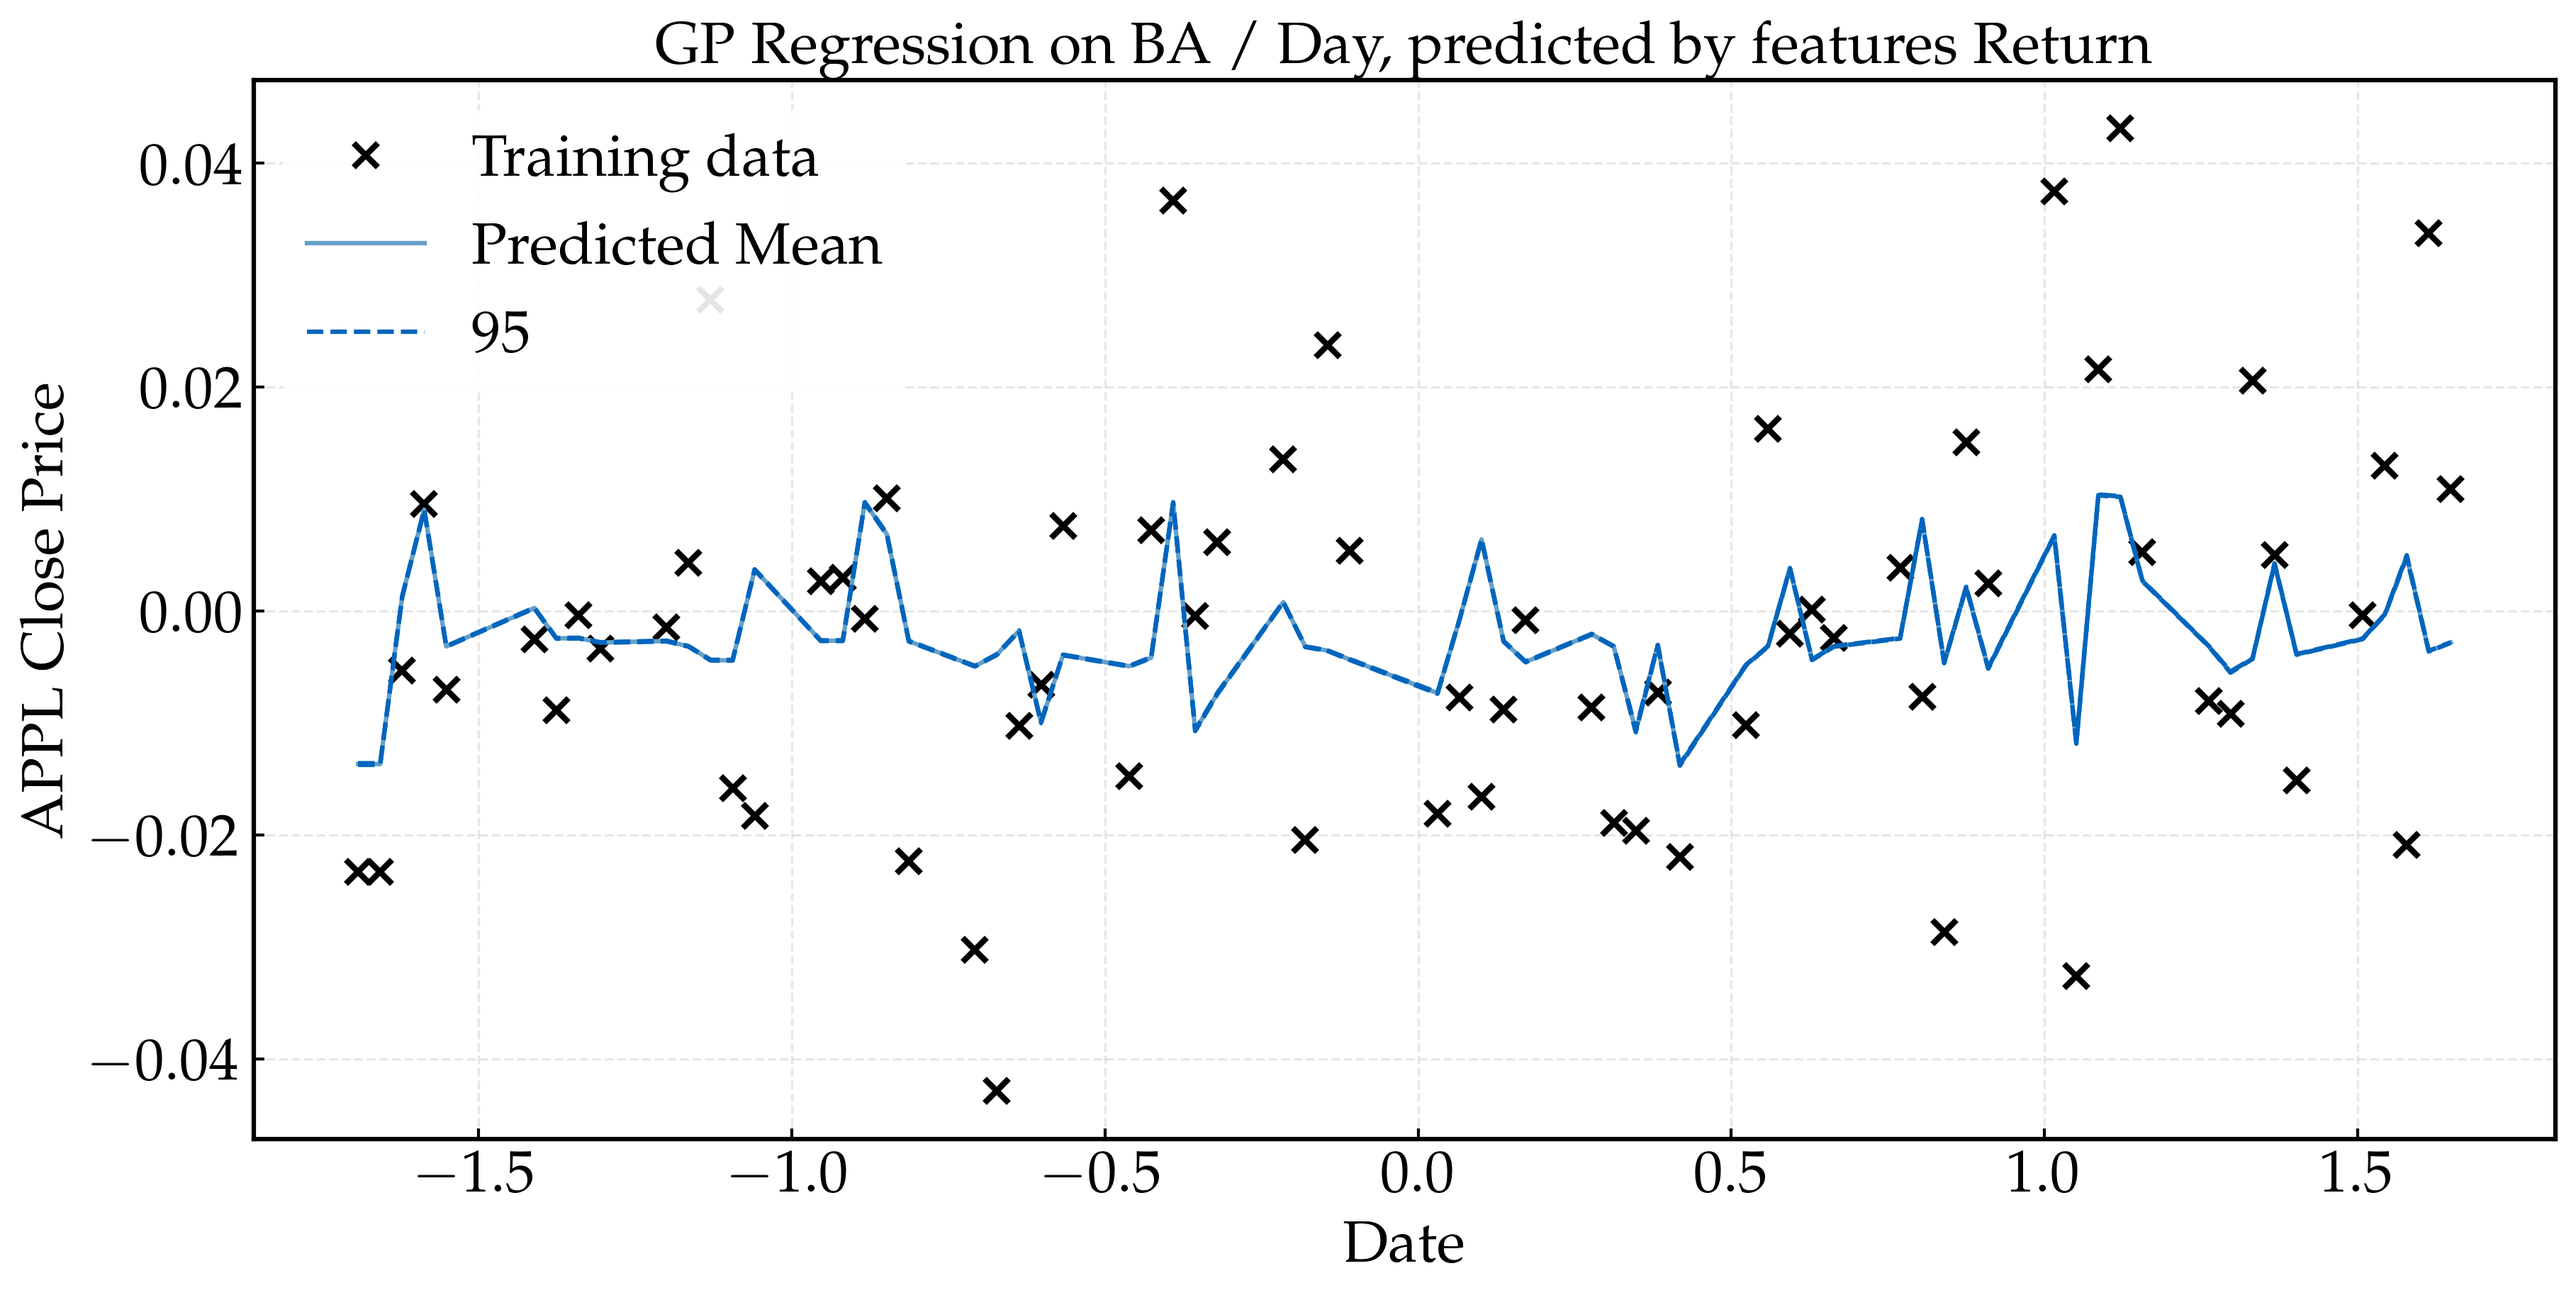
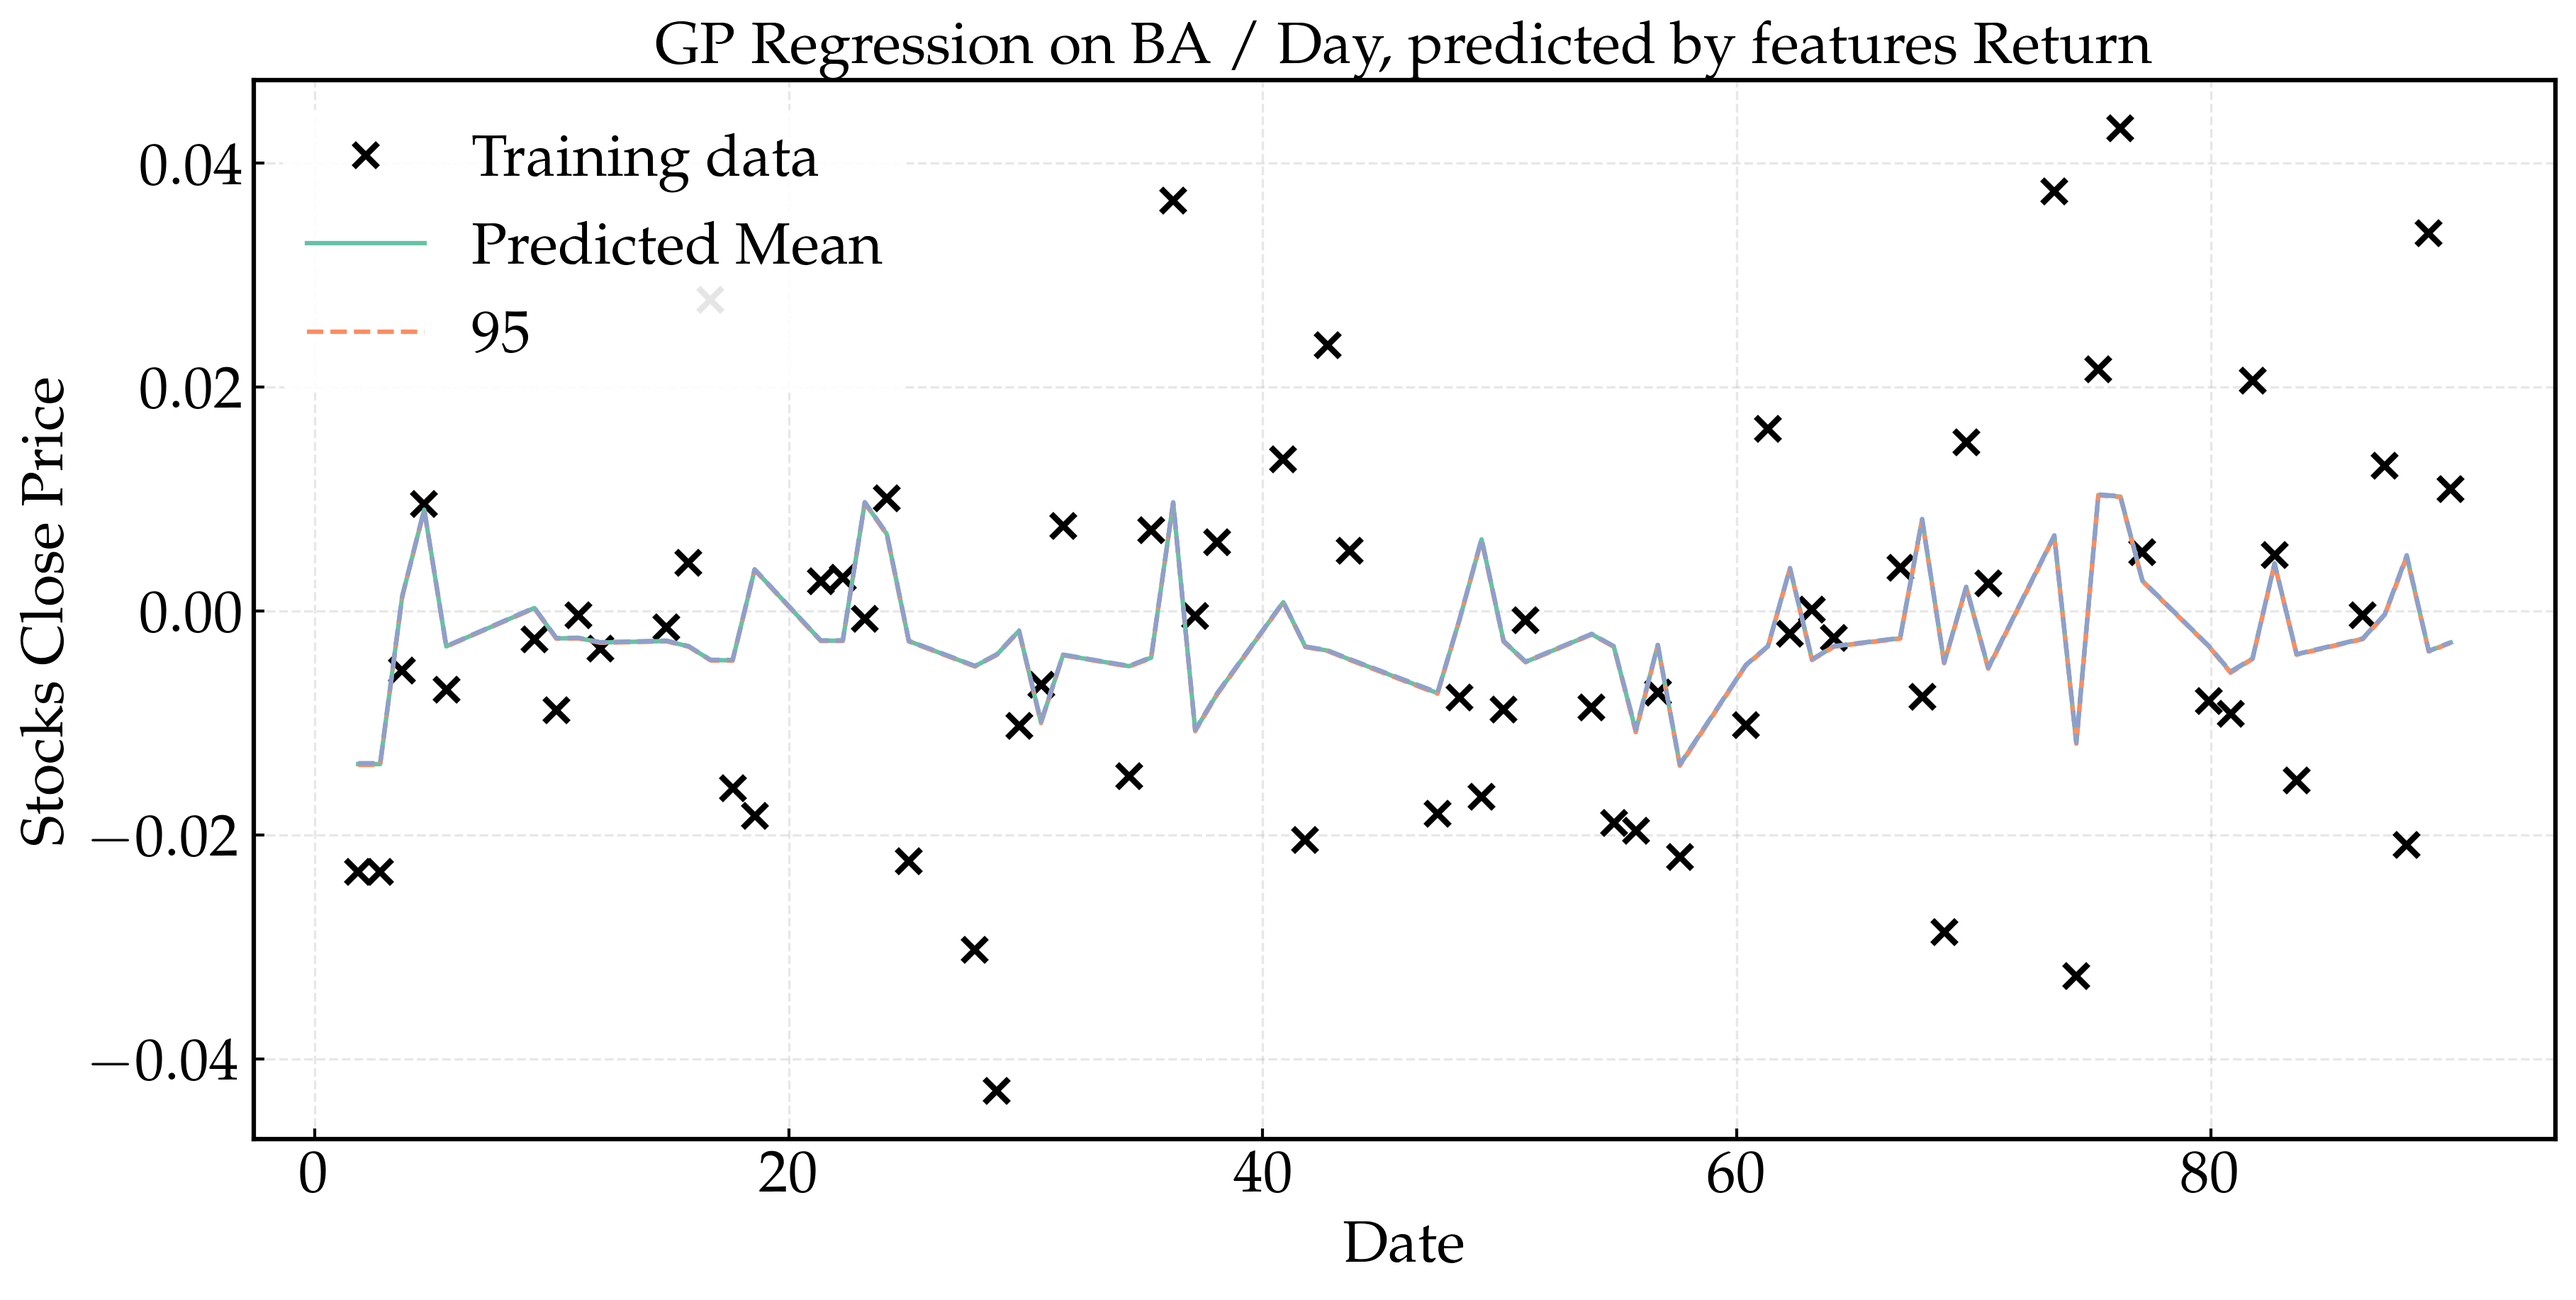
update
update

diff --git a/Multi-Input_GPR/main.py b/Multi-Input_GPR/main.py
@@ -267,7 +267,7 @@ class MultiInputGPR:
     def run_step_3(self) -> None:
         #1. Fetch the actual values of to-be-predicted stock data(e.g. APPL stock price)
         X_AAPL_tf, Y_AAPL_tf, AAPL_dates, (AAPL_mean, AAPL_std), (x_mean, x_std) = self.data_handler.process_data("Stocks", self.ticker, "d", self.train_start_date, self.train_end_date, self.predict_Y, isFetch=True, isDenoised=False, isFiltered=False)
-        X_AAPL_full_tf, Y_AAPL_full_tf, AAPL_full_dates, (AAPL_full_mean, AAPL_full_std), (x_mean_full, x_std_full) = self.data_handler.process_data("Stocks", self.ticker, "d", self.train_start_date, self.test_end_date, "return", isFetch=True, isDenoised=False, isFiltered=False)
+        X_AAPL_full_tf, Y_AAPL_full_tf, AAPL_full_dates, (AAPL_full_mean, AAPL_full_std), (x_mean_full, x_std_full) = self.data_handler.process_data("Stocks", self.ticker, "d", self.train_start_date, self.test_end_date, self.predict_Y, isFetch=True, isDenoised=False, isFiltered=False)
 
         #2. Fetch input data(e.g. Brent Oil / MSFT stock price)
         # X columns vector for training
@@ -277,16 +277,16 @@ class MultiInputGPR:
         for feature in self.features:
             if feature == "Brent_Oil" or feature == "DXY" or feature == "XAU_USD":
                 X_tf, Y_tf, dates, (y_mean, y_std), (x_mean, x_std) = self.data_handler.process_data("Commodities", feature, "d", self.train_start_date, self.train_end_date, self.predict_Y, isFetch=False, isDenoised=False, isFiltered=False)
-                X_full_tf, Y_full_tf, full_dates, (y_full_mean, y_full_std), (x_full_mean, x_full_std)= self.data_handler.process_data("Commodities", feature, "d", self.train_start_date, self.test_end_date, "return", isFetch=False, isDenoised=False, isFiltered=False)
+                X_full_tf, Y_full_tf, full_dates, (y_full_mean, y_full_std), (x_full_mean, x_full_std)= self.data_handler.process_data("Commodities", feature, "d", self.train_start_date, self.test_end_date, self.predict_Y, isFetch=False, isDenoised=False, isFiltered=False)
             elif feature == "SP500" or feature == "NasDaq100":
                 X_tf, Y_tf, dates, (y_mean, y_std), (x_mean, x_std) = self.data_handler.process_data("Stocks/index", feature, "d", self.train_start_date, self.train_end_date, self.predict_Y, isFetch=False, isDenoised=False, isFiltered=False)
-                X_full_tf, Y_full_tf, full_dates, (y_full_mean, y_full_std), (x_full_mean, x_full_std) = self.data_handler.process_data("Stocks/Index", feature, "d", self.train_start_date, self.test_end_date, "return", isFetch=False, isDenoised=False, isFiltered=False)
+                X_full_tf, Y_full_tf, full_dates, (y_full_mean, y_full_std), (x_full_mean, x_full_std) = self.data_handler.process_data("Stocks/Index", feature, "d", self.train_start_date, self.test_end_date, self.predict_Y, isFetch=False, isDenoised=False, isFiltered=False)
             elif feature == "BTC":
                 X_tf, Y_tf, dates, (y_mean, y_std), (x_mean, x_std) = self.data_handler.process_data("Stocks", feature, "d", self.train_start_date, self.train_end_date, self.predict_Y, isFetch=False, isDenoised=False, isFiltered=False)
-                X_full_tf, Y_full_tf, full_dates, (y_full_mean, y_full_std), (x_full_mean, x_full_std) = self.data_handler.process_data("Stocks", feature, "d", self.train_start_date, self.test_end_date, "return", isFetch=False, isDenoised=False, isFiltered=False)
+                X_full_tf, Y_full_tf, full_dates, (y_full_mean, y_full_std), (x_full_mean, x_full_std) = self.data_handler.process_data("Stocks", feature, "d", self.train_start_date, self.test_end_date, self.predict_Y, isFetch=False, isDenoised=False, isFiltered=False)
             else:
                 X_tf, Y_tf, dates, (y_mean, y_std), (x_mean, x_std) = self.data_handler.process_data("Stocks", feature, "d", self.train_start_date, self.train_end_date, self.predict_Y, isFetch=True, isDenoised=False, isFiltered=False)
-                X_full_tf, Y_full_tf, full_dates, (y_full_mean, y_full_std), (x_full_mean, x_full_std) = self.data_handler.process_data("Stocks", feature, "d", self.train_start_date, self.test_end_date, "return", isFetch=True, isDenoised=False, isFiltered=False)
+                X_full_tf, Y_full_tf, full_dates, (y_full_mean, y_full_std), (x_full_mean, x_full_std) = self.data_handler.process_data("Stocks", feature, "d", self.train_start_date, self.test_end_date, self.predict_Y, isFetch=True, isDenoised=False, isFiltered=False)
             visualizer = Visualizer()
             visualizer.plot_data(X_tf, Y_tf, dates, title=f'{feature} - Day', mean=y_mean, std=y_std, filename=f'../plots/multi-input/{feature}_log_return.png')
 
@@ -320,7 +320,7 @@ class MultiInputGPR:
         for composite_kernel in self.kernel_combinations:
             if self.isFixed:
                 model = gpflow.models.GPR(
-                    (X, Y), kernel=deepcopy(composite_kernel), noise_variance=1e-3
+                    (X, Y), kernel=deepcopy(composite_kernel), noise_variance=1e-5
                 )
                 
                 model = ModelTrainer.train_model(model)
@@ -345,10 +345,7 @@ class MultiInputGPR:
         Y_actual = Y_AAPL_full_tf * AAPL_full_std + AAPL_full_mean
         f_cov = f_cov * AAPL_full_std ** 2
 
-        # Calculate denormalised mse for all train and test data
-        # Actually should only calculate the test period data
-        mse_test = mean_squared_error(Y_actual, f_mean.numpy())
-        print(f"Mean Squared Error DeNormalized: {mse_test:.4f}")
+        X_AAPL_full_tf = X_AAPL_full_tf * x_std + x_mean
 
         visualizer.plot_GP(X_AAPL_full_tf, Y_actual, f_mean, f_cov, title=f"{self.ticker} / Day, predicted by features", filename=f'../plots/multi-input/future_predictions_{self.ticker}.png')
 
@@ -480,35 +477,7 @@ class MultiInputGPR:
         print(f"Mean Squared Error: {mse:.4f}")
 
 
-# if __name__ == "__main__":
-#     # Define your parameters
-#     train_start_date = '2024-02-10'
-#     train_end_date = '2024-05-10'
-#     test_start_date = '2024-05-13'
-#     test_end_date = '2024-05-17'
-    
-#     ticker = 'MSFT'  # Example ticker
-#     assets = ['Brent_Oil', 'DXY', 'BTC', 'XAU_USD']
-    
-#     # Initialize the MultiInputGPR instance
-#     multiInputGPR = MultiInputGPR(
-#         ticker=ticker, 
-#         features=assets,
-#         train_start_date=train_start_date, 
-#         train_end_date=train_end_date, 
-#         test_start_date=test_start_date,
-#         test_end_date=test_end_date,
-#         kernel_combinations=[(gpflow.kernels.Exponential, gpflow.kernels.Exponential)],
-#         window_size=3,
-#         kernels=[gpflow.kernels.Exponential()],
-#         threshold=0.30,
-#         predict_Y='close',
-#         removal_percentage=0.1,
-#         isFixedLikelihood=False
-#     )
-    
-#     # Call the run_step_2 method
-#     multiInputGPR.run_step_2()
+
 
 if __name__ == "__main__":
     train_start_date = '2024-02-10'
@@ -518,7 +487,7 @@ if __name__ == "__main__":
 
     ticker1 = 'JPM'
     ticker2 = 'MSFT'
-    ticker3 = 'BA'
+    ticker3 = 'COST'
     ticker4 = 'HLT'
     ticker5 = 'JNJ'
     #assets = ['COST', 'AAPL', 'GOOGL', 'JNJ', 'XOM', 'PLD', 'NEE', 'Brent_Oil', 'DXY', 'BAC', 'SP500', 'NasDaq100']
@@ -578,9 +547,9 @@ if __name__ == "__main__":
             threshold=0.30,
             predict_Y=predict_Y,
             removal_percentage=0.1,
-            isFixedLikelihood=False
+            isFixedLikelihood=True
         )
-        predicted = multiInputGPR.run_step_3()
+        predicted = multiInputGPR.run_step_4()
         
         # [ [asset1 over 5 days], [asset2 over 5 days], ...]
         predicted_values.append(predicted[0])

diff --git a/Multi-Input_GPR/utils/visualizer.py b/Multi-Input_GPR/utils/visualizer.py
@@ -100,7 +100,7 @@ class Visualizer:
         dates_formatted = dates.dt.strftime(f'%y-%m-%d')
         Y_tf = Y_tf * std + mean
         plt.figure(figsize=(12, 6))
-        plt.plot(dates_formatted, Y_tf, label=title)
+        plt.plot(dates_formatted, Y_tf, "--", color=tum_colors["line1"], label=title)
         plt.xlabel('Date')
         plt.ylabel('Open Price')
         plt.xticks(rotation=45)
@@ -120,12 +120,12 @@ class Visualizer:
 
         plt.figure(figsize=(12, 6))
         plt.plot(X_tf, Y_tf, "kx", mew=2, label="Training data")
-        plt.plot(X_tf, f_mean, color=tum_colors['TUMAccentBlue'], label="Predicted Mean")
-        plt.plot(X_tf, f_lower, "--", color=tum_colors['TUMBlue'], label="95% confidence")
-        plt.plot(X_tf, f_upper, "--", color=tum_colors['TUMBlue'])
+        plt.plot(X_tf, f_mean, color=tum_colors['line1'], label="Predicted Mean")
+        plt.plot(X_tf, f_lower, "--", color=tum_colors['line2'], label="95% confidence")
+        plt.plot(X_tf, f_upper, "--", color=tum_colors['line3'])
         plt.fill_between(X_tf[:, 0], f_lower[:, 0], f_upper[:, 0], color="C0", alpha=0.2)
         plt.xlabel('Date')
-        plt.ylabel('APPL Close Price')
+        plt.ylabel('Stocks Close Price')
         plt.title(f'GP Regression on {title} Return')
         plt.legend()
         plt.grid(True)

diff --git a/Multi-Input_GPR/models/model_trainer.py b/Multi-Input_GPR/models/model_trainer.py
@@ -19,7 +19,7 @@ class ModelTrainer:
         gpflow.set_trainable(model.likelihood, False)
         opt = gpflow.optimizers.Scipy()
         opt.minimize(model.training_loss, model.trainable_variables)
-        #print_summary(model)
+        print_summary(model)
 
         return model
     
